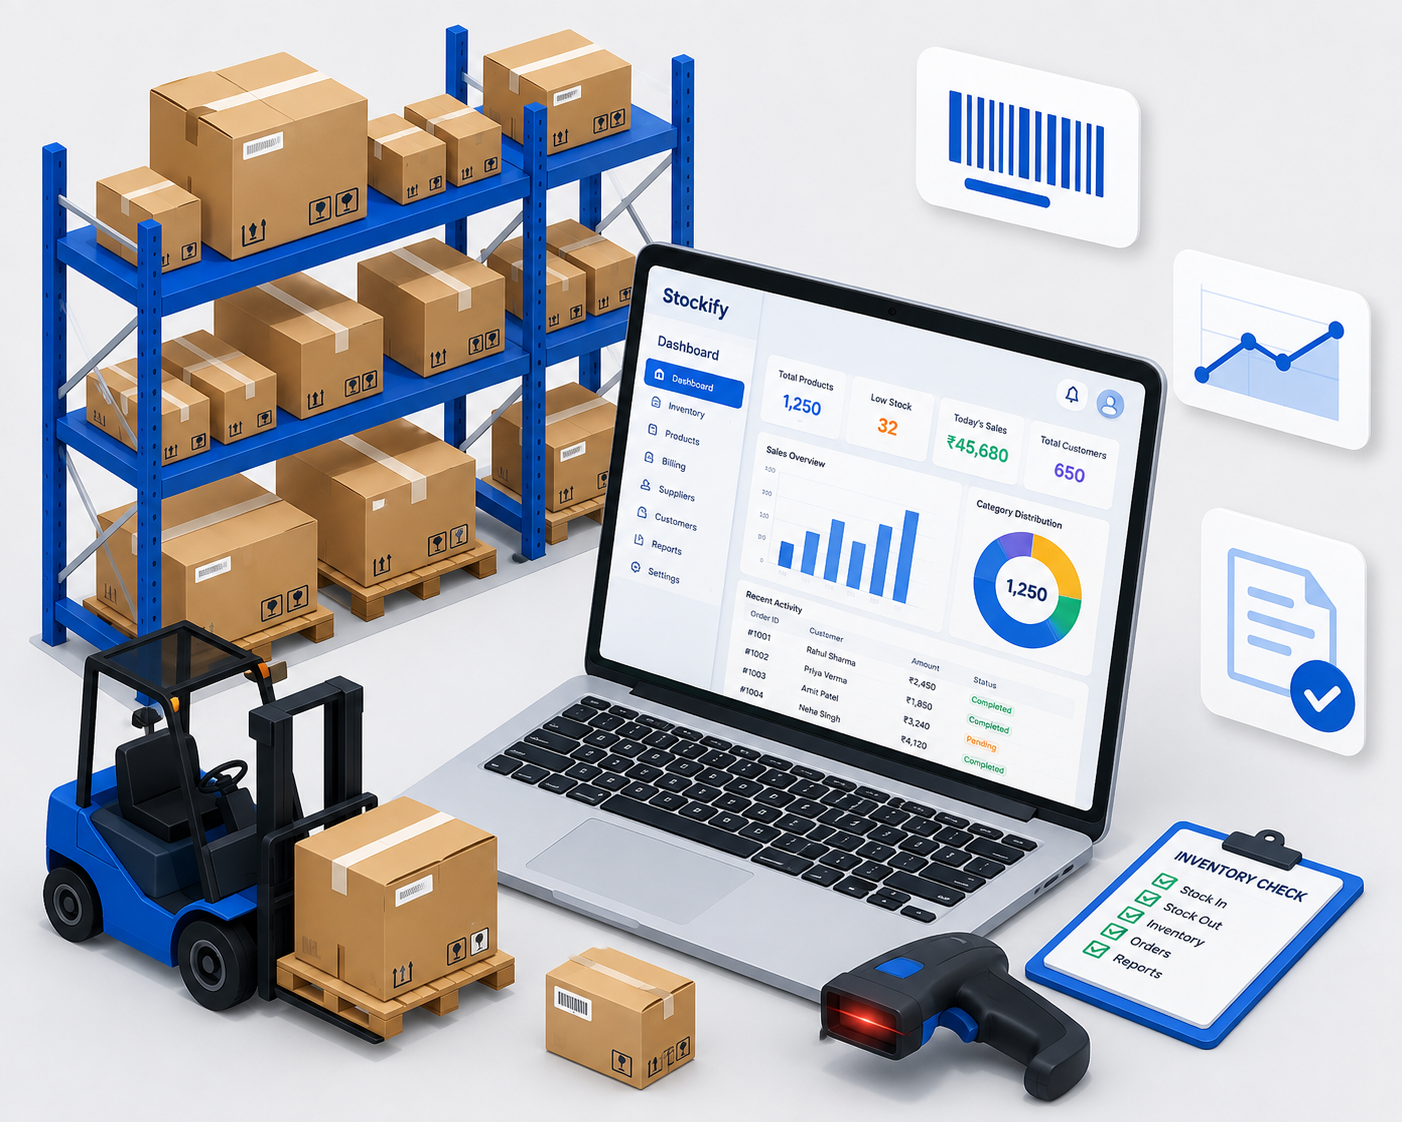
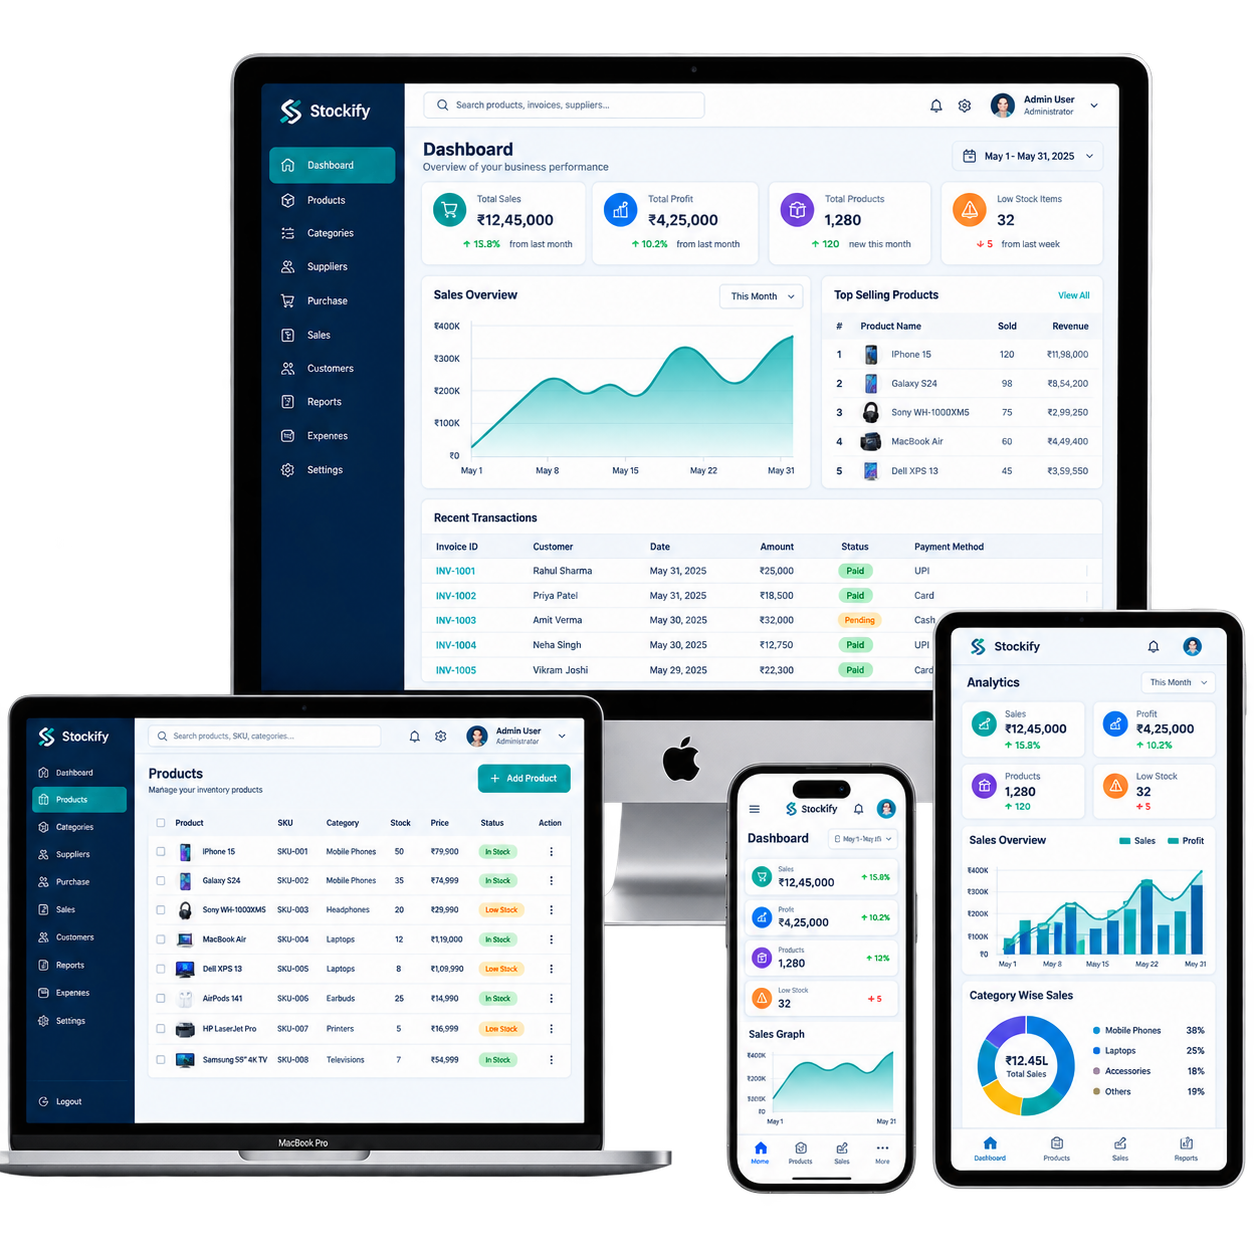
commit with login page

diff --git a/StockifyWeb/Content/Stockify.css b/StockifyWeb/Content/Stockify.css
@@ -338,3 +338,121 @@ body {
         font-size: 15px;
         line-height: 1.6;
     }
+
+/* =========================================
+   LOGIN PAGE (Login.aspx)
+   ========================================= */
+.login-body {
+    margin: 0;
+    padding: 0;
+    background-color: #0f172a;
+    font-family: -apple-system, BlinkMacSystemFont, "Segoe UI", Roboto, "Helvetica Neue", Arial, sans-serif;
+}
+
+.stockify-brand-text-white {
+    font-size: 36px;
+    font-weight: 800; /* Extra bold */
+    color: white;
+    letter-spacing: -0.5px;
+    line-height: 1;
+}
+
+.login-split-container {
+    display: flex;
+    min-height: 100vh;
+    width: 100%;
+}
+
+.login-left-panel {
+    flex: 1;
+    background-color: #0f172a;
+    display: flex;
+    align-items: center;
+    justify-content: center;
+    padding: 40px;
+}
+
+.login-form-wrapper {
+    width: 100%;
+    max-width: 420px;
+}
+
+.login-logo-img {
+    height: 40px;
+    width: auto;
+}
+
+.welcome-title {
+    color: white;
+    font-size: 32px;
+    font-weight: 800;
+    margin-bottom: 8px;
+}
+
+.welcome-subtitle {
+    color: #94a3b8;
+    font-size: 14px;
+    line-height: 1.5;
+    margin-bottom: 30px;
+}
+
+.custom-input {
+    background-color: rgba(255, 255, 255, 0.05) !important;
+    border-color: #334155 !important;
+    color: white !important;
+    padding: 12px 15px;
+}
+
+    .custom-input:focus {
+        background-color: rgba(255, 255, 255, 0.1) !important;
+        border-color: #0284c7 !important;
+        box-shadow: none;
+        color: white !important;
+    }
+
+    .custom-input::placeholder {
+        color: #64748b;
+    }
+
+.login-submit-btn {
+    background-color: #2563eb !important;
+    border: none;
+    font-weight: 600;
+    padding: 12px;
+    border-radius: 6px;
+}
+
+    .login-submit-btn:hover {
+        background-color: #1d4ed8 !important;
+    }
+
+.login-right-panel {
+    flex: 1;
+    background-color: #ffffff;
+    overflow-y: auto;
+}
+
+.login-preview-img {
+    max-height: 380px;
+    width: auto;
+    border-radius: 8px;
+}
+
+.feature-mini-box {
+    border-color: #e2e8f0 !important;
+    transition: transform 0.2s;
+}
+
+    .feature-mini-box:hover {
+        transform: translateY(-3px);
+    }
+
+@media (max-width: 991px) {
+    .login-split-container {
+        flex-direction: column;
+    }
+
+    .login-right-panel {
+        display: none !important;
+    }
+}

diff --git a/StockifyWeb/Login.aspx.cs b/StockifyWeb/Login.aspx.cs
@@ -1,10 +1,18 @@
-//< !DOCTYPE html >
-//< html >
-//< head >
-//    < meta charset = "utf-8" />
-//    < title ></ title >
-//</ head >
-//< body >
+using System;
+using System.Web.UI;
 
-//</ body >
-//</ html >
+namespace StockifyWeb
+{
+    public partial class Login : Page
+    {
+        protected void Page_Load(object sender, EventArgs e)
+        {
+        }
+
+        protected void btnLogin_Click(object sender, EventArgs e)
+        {
+            // Redirect to home/dashboard upon login
+            Response.Redirect("Default.aspx");
+        }
+    }
+}
